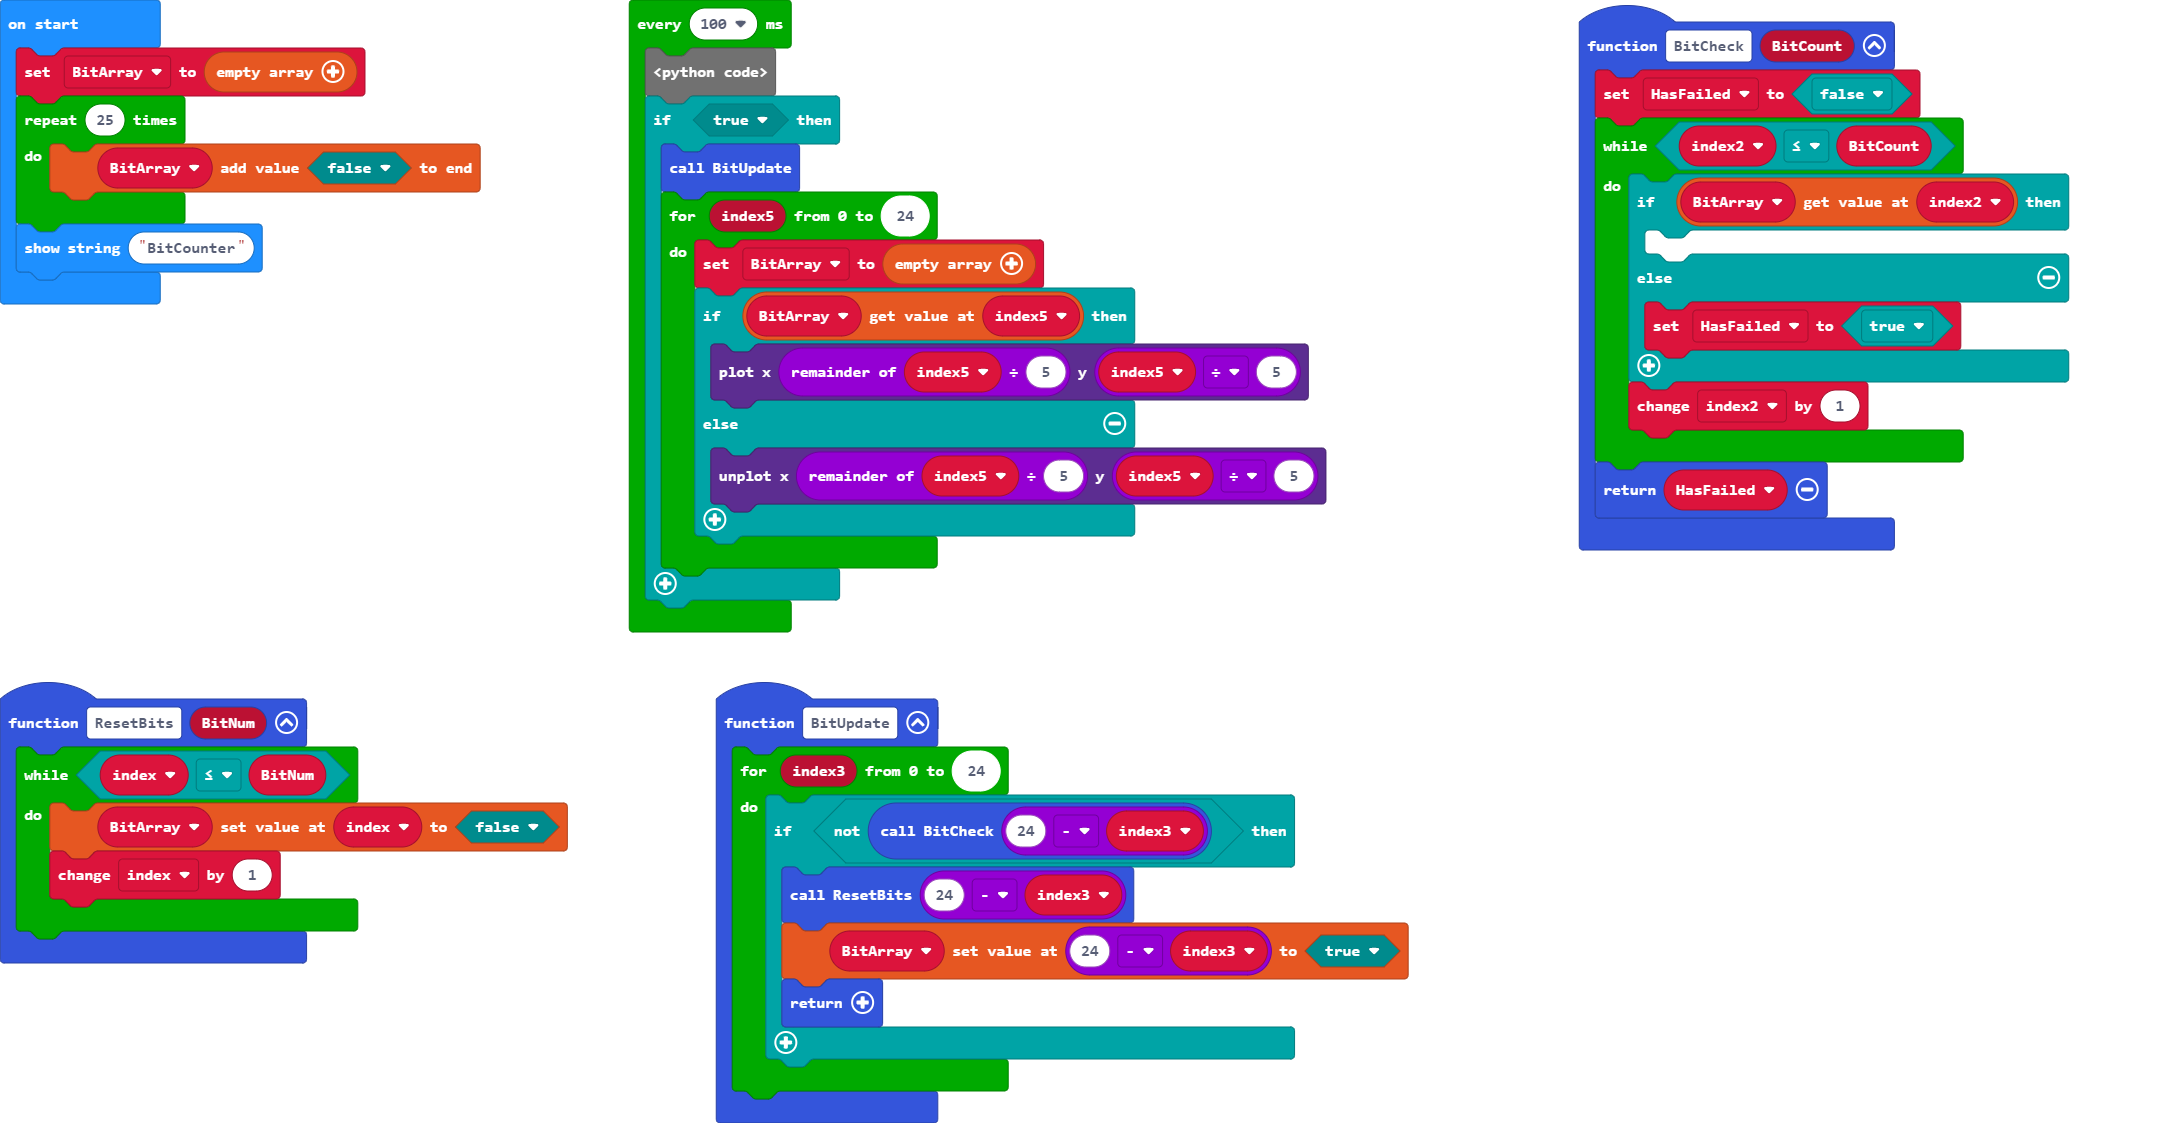
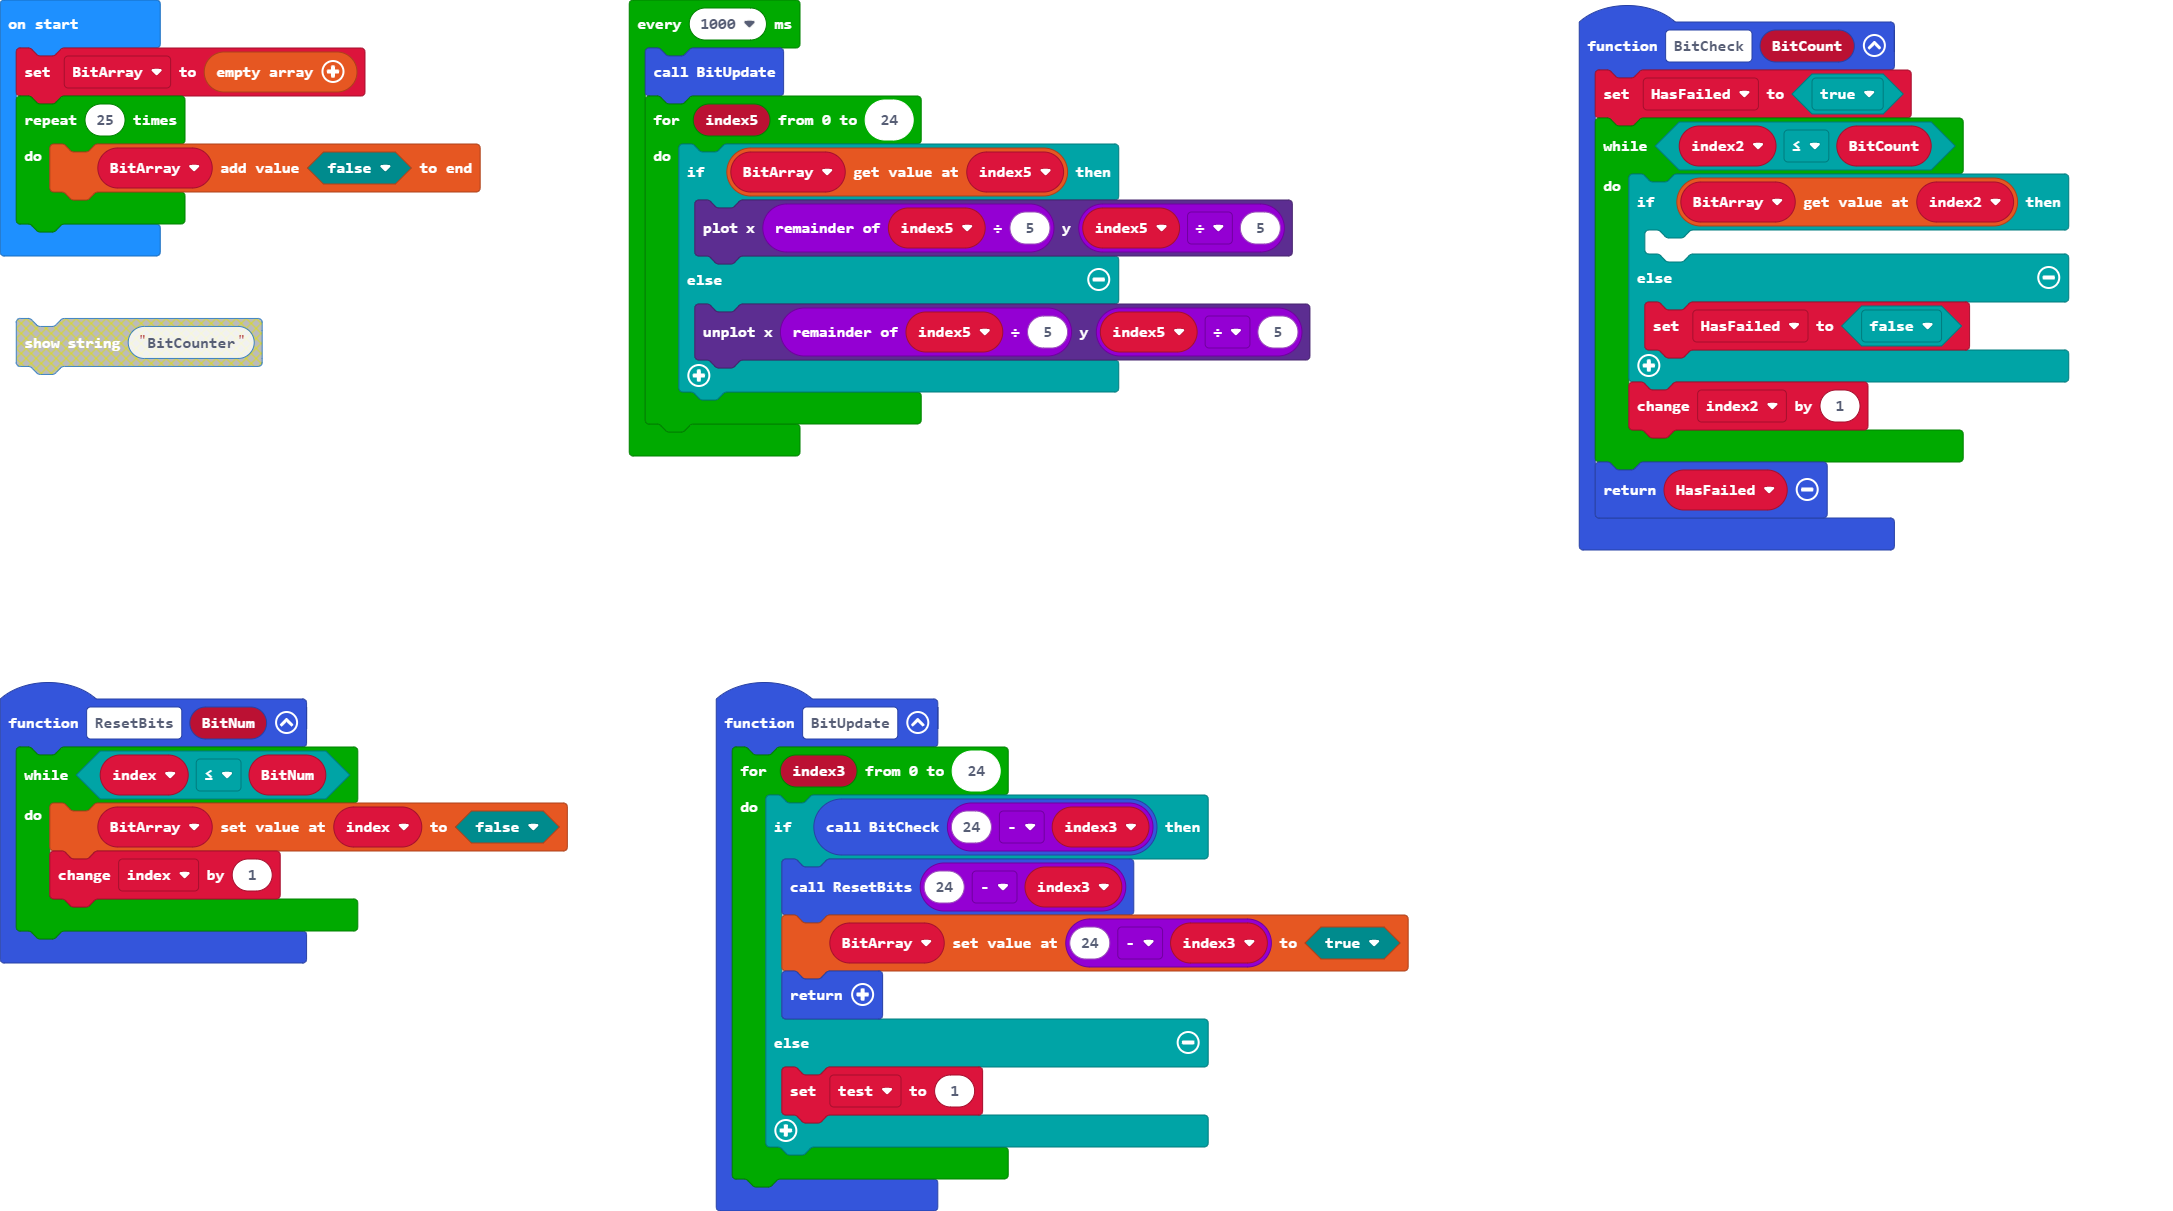
Still trying to figure out some bugs, but i think i got some

diff --git a/main.ts b/main.ts
@@ -5,12 +5,12 @@ function ResetBits (BitNum: number) {
     }
 }
 function BitCheck (BitCount: number) {
-    HasFailed = false
+    HasFailed = true
     while (index2 <= BitCount) {
         if (BitArray[index2]) {
         	
         } else {
-            HasFailed = true
+            HasFailed = false
         }
         index2 += 1
     }
@@ -18,13 +18,16 @@ function BitCheck (BitCount: number) {
 }
 function BitUpdate () {
     for (let index3 = 0; index3 <= 24; index3++) {
-        if (!(BitCheck(24 - index3))) {
+        if (BitCheck(24 - index3)) {
             ResetBits(24 - index3)
             BitArray[24 - index3] = true
             return
+        } else {
+            test = 1
         }
     }
 }
+let test = 0
 let index2 = 0
 let HasFailed = false
 let index = 0
@@ -33,18 +36,13 @@ BitArray = []
 for (let index3 = 0; index3 < 25; index3++) {
     BitArray.push(false)
 }
-basic.showString("BitCounter")
-loops.everyInterval(100, function () {
-    let list2: number[];
-if (true) {
-        BitUpdate()
-        for (let index5 = 0; index5 <= 24; index5++) {
-            BitArray = []
-            if (BitArray[index5]) {
-                led.plot(index5 % 5, index5 / 5)
-            } else {
-                led.unplot(index5 % 5, index5 / 5)
-            }
+loops.everyInterval(1000, function () {
+    BitUpdate()
+    for (let index5 = 0; index5 <= 24; index5++) {
+        if (BitArray[index5]) {
+            led.plot(index5 % 5, index5 / 5)
+        } else {
+            led.unplot(index5 % 5, index5 / 5)
         }
     }
 })
